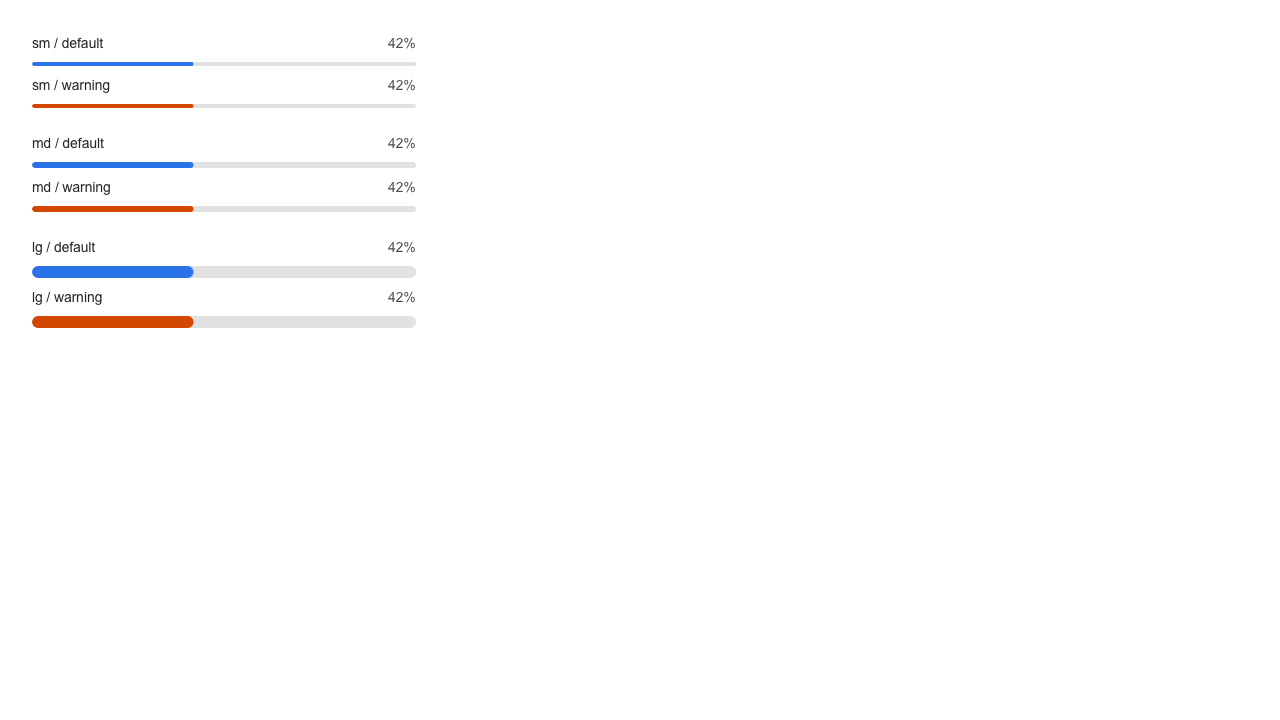
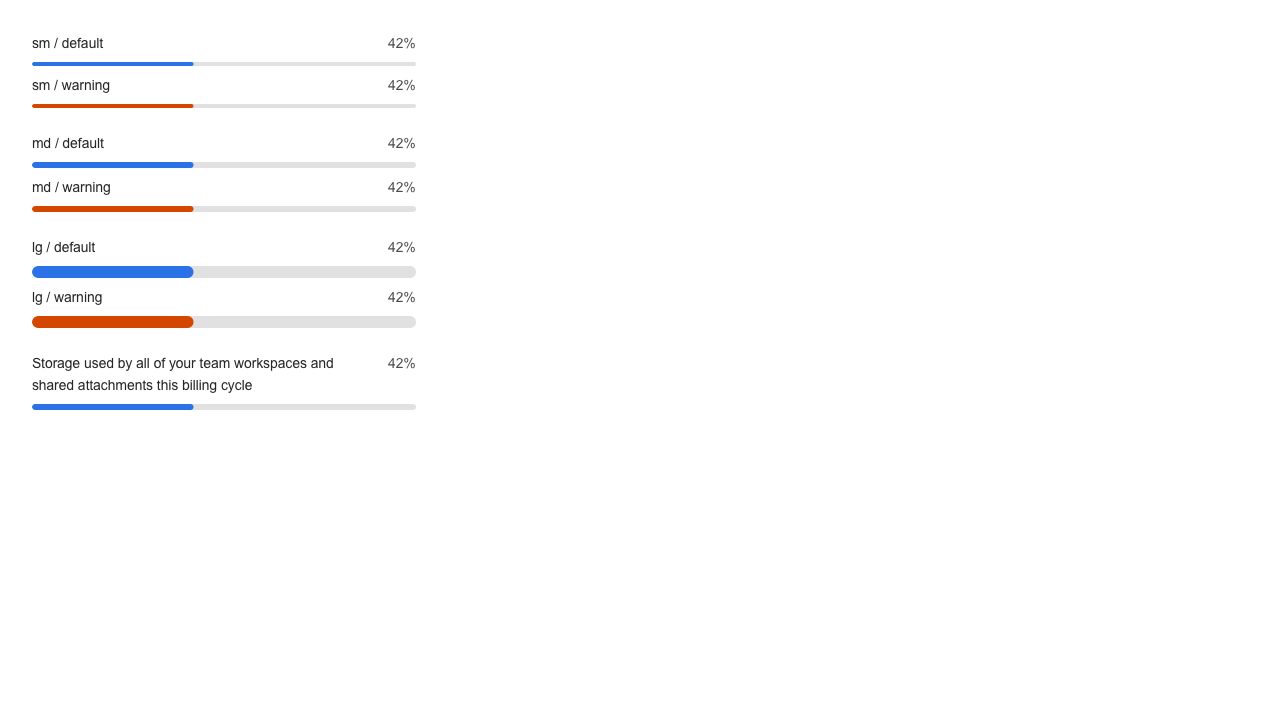
fix(meter): align label and value to the top of the grid

Changed region(s): [[0.0312, 0.4889, 0.3438, 0.5806]]

diff --git a/packages/core/src/components/meter/meter.stories.tsx b/packages/core/src/components/meter/meter.stories.tsx
@@ -50,6 +50,10 @@ export const TestBed: Story = {
                     ))}
                 </VStack>
             ))}
+            <MeterExample
+                value={42}
+                label="Storage used by all of your team workspaces and shared attachments this billing cycle"
+            />
         </VStack>
     ),
 };

diff --git a/packages/core/src/components/meter/meter.css.ts b/packages/core/src/components/meter/meter.css.ts
@@ -7,7 +7,8 @@ import { vars } from '~/styles/themes.css';
 export const root = componentStyle({
     display: 'grid',
     gridTemplateColumns: 'minmax(0, 1fr) auto',
-    alignItems: 'center',
+    alignItems: 'start',
+    columnGap: vars.size.space['150'],
     rowGap: vars.size.space['100'],
     width: '100%',
 });
